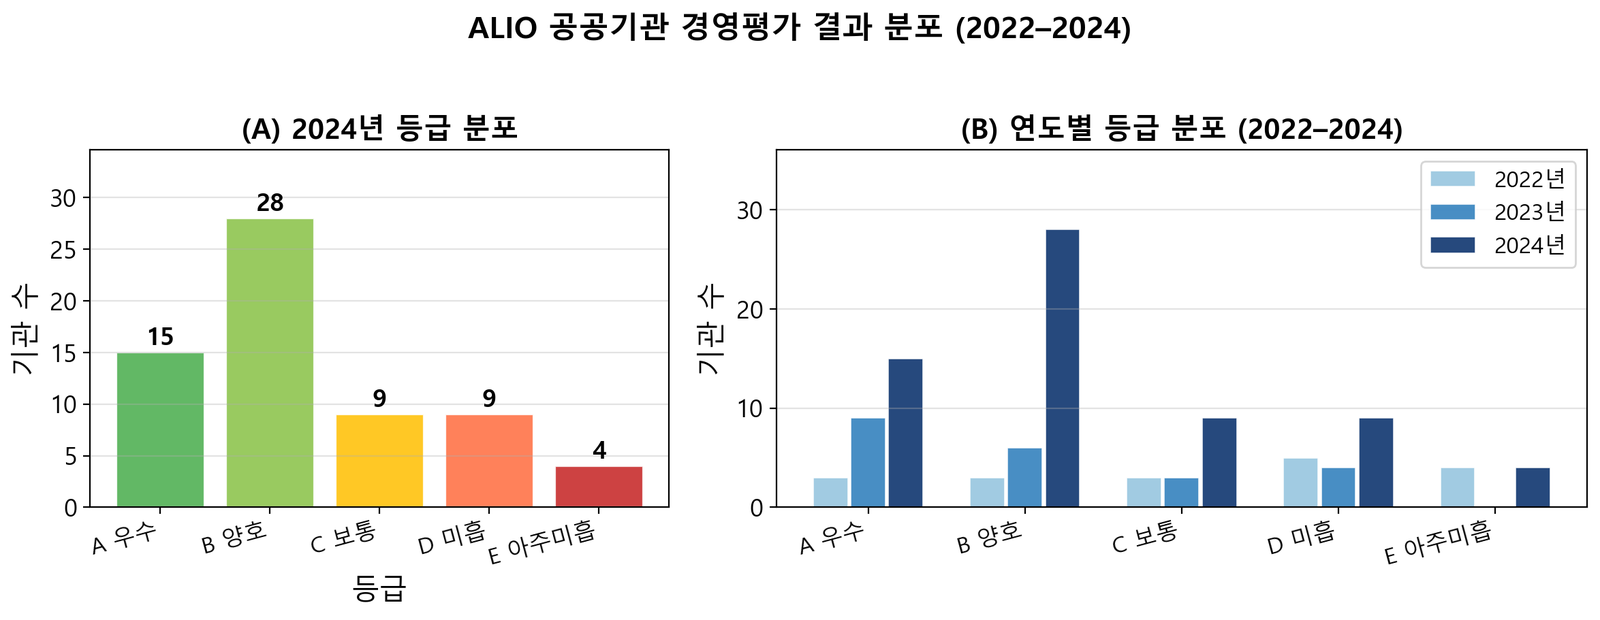
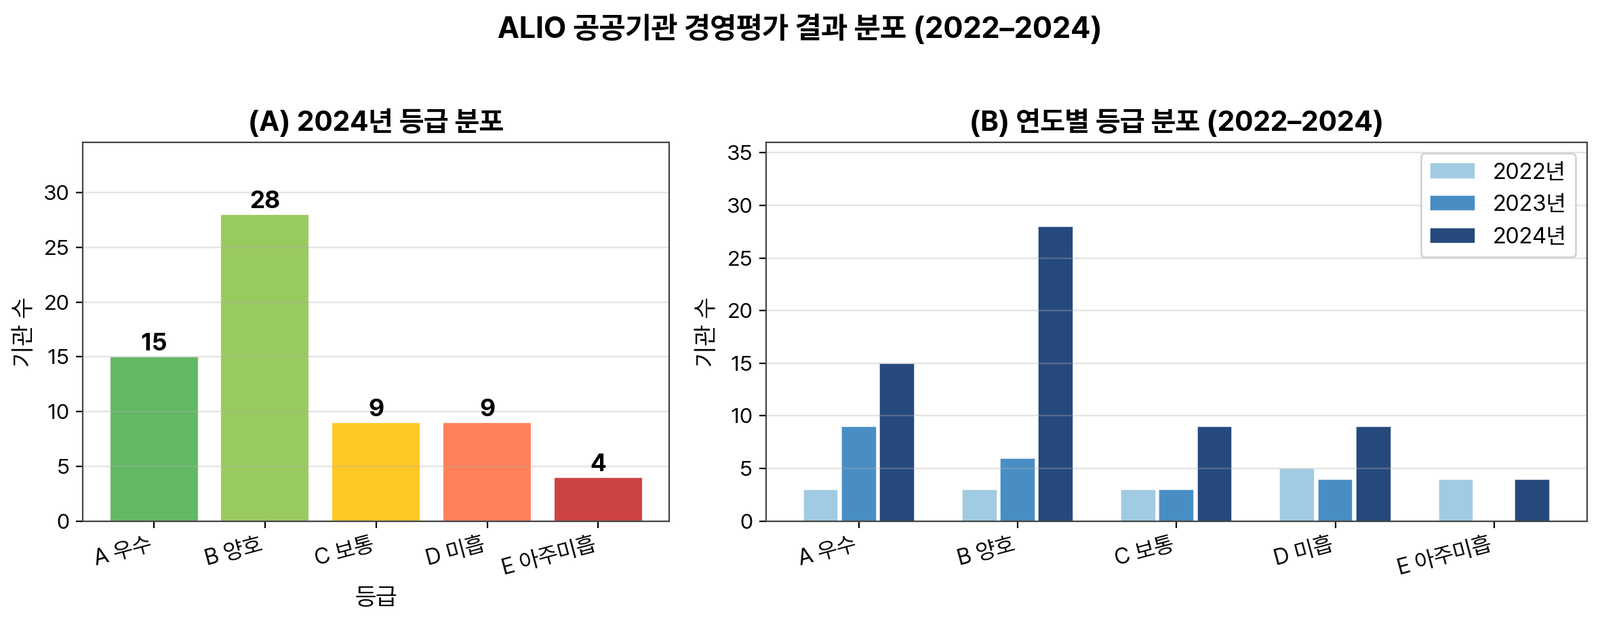
논문 차트 폰트 통일 2차 (v3·h14·forest → Pretendard)
- generate_v3_charts.py·redo_slidefig_h14_quadrant.py: Malgun → 공통 _paper_style(Pretendard)
- 재생성: h10_v3_robustness·h9_v3_time_evo·v3_calibration·v3_alio_grades·h14_quadrant·forest 2개
- 누적 27/33 차트 Pretendard 통일 (1차 redo_fig 20 + h29/h30 기존 Pretendard 포함 시 더 많음)
- 잔여 예외: h28_scaleogram(pywt numpy ABI 에러로 실행 불가)·fig_slide38_business·fig_slide22_cutoff(생성기 미확인)

diff --git a/scripts/6_outcome/generate_v3_charts.py b/scripts/6_outcome/generate_v3_charts.py
@@ -40,25 +40,11 @@ os.makedirs(FIG_KR, exist_ok=True)
 # FIG_EN(영문 그림)은 국내 제출용으로 미사용 — 디렉터리 생성/저장 안 함 (헬퍼에서 차단)
 
 # ── Font setup ─────────────────────────────────────────────────────────────────
-FONT_KR = 'DejaVu Sans'
-for fname in ['Malgun Gothic', 'Arial Unicode MS', 'NanumGothic']:
-    if any(fname.lower() in fn.name.lower()
-           for fn in mpl.font_manager.fontManager.ttflist):
-        FONT_KR = fname
-        break
-
-plt.rcParams.update({
-    'font.size': 15,
-    'axes.titlesize': 17,
-    'axes.labelsize': 15,
-    'xtick.labelsize': 13,
-    'ytick.labelsize': 13,
-    'legend.fontsize': 12,
-    'mathtext.default': 'regular',
-    'axes.unicode_minus': False,
-    'figure.facecolor': 'white',
-    'axes.facecolor': 'white',
-})
+import sys as _ps_sys
+_ps_sys.path.insert(0, os.path.join(os.path.dirname(os.path.dirname(os.path.abspath(__file__))), 'figures'))
+from _paper_style import apply_paper_style
+apply_paper_style(base=13)   # 논문 차트 공통 스타일(Pretendard + 통일 rcParams)
+FONT_KR = 'Pretendard'
 
 DPI      = 200
 MAX_W    = 1600   # max width in pixels after resize (raised for A4 PDF readability)

diff --git a/scripts/slides/redo_slidefig_h14_quadrant.py b/scripts/slides/redo_slidefig_h14_quadrant.py
@@ -19,18 +19,10 @@ from PIL import Image
 warnings.filterwarnings('ignore')
 sys.stdout = io.TextIOWrapper(sys.stdout.buffer, encoding='utf-8')
 
-plt.rcParams.update({
-    'font.size': 15, 'axes.titlesize': 17, 'axes.labelsize': 15,
-    'xtick.labelsize': 13, 'ytick.labelsize': 13,
-    'legend.fontsize': 13,
-    'mathtext.default': 'regular',
-    'axes.unicode_minus': False,
-})
-for fname in ['Malgun Gothic', 'Arial Unicode MS', 'NanumGothic']:
-    if any(fname.lower() in fn.name.lower()
-           for fn in mpl.font_manager.fontManager.ttflist):
-        mpl.rcParams['font.family'] = [fname, 'Times New Roman', 'DejaVu Sans']
-        break
+import sys as _ps_sys
+_ps_sys.path.insert(0, os.path.join(os.path.dirname(os.path.dirname(os.path.abspath(__file__))), 'figures'))
+from _paper_style import apply_paper_style
+apply_paper_style(base=13)   # 논문 차트 공통 스타일
 
 ROOT = os.path.dirname(os.path.dirname(os.path.dirname(os.path.abspath(__file__))))
 DB = os.path.join(ROOT, 'data', 'warehouse.duckdb')
